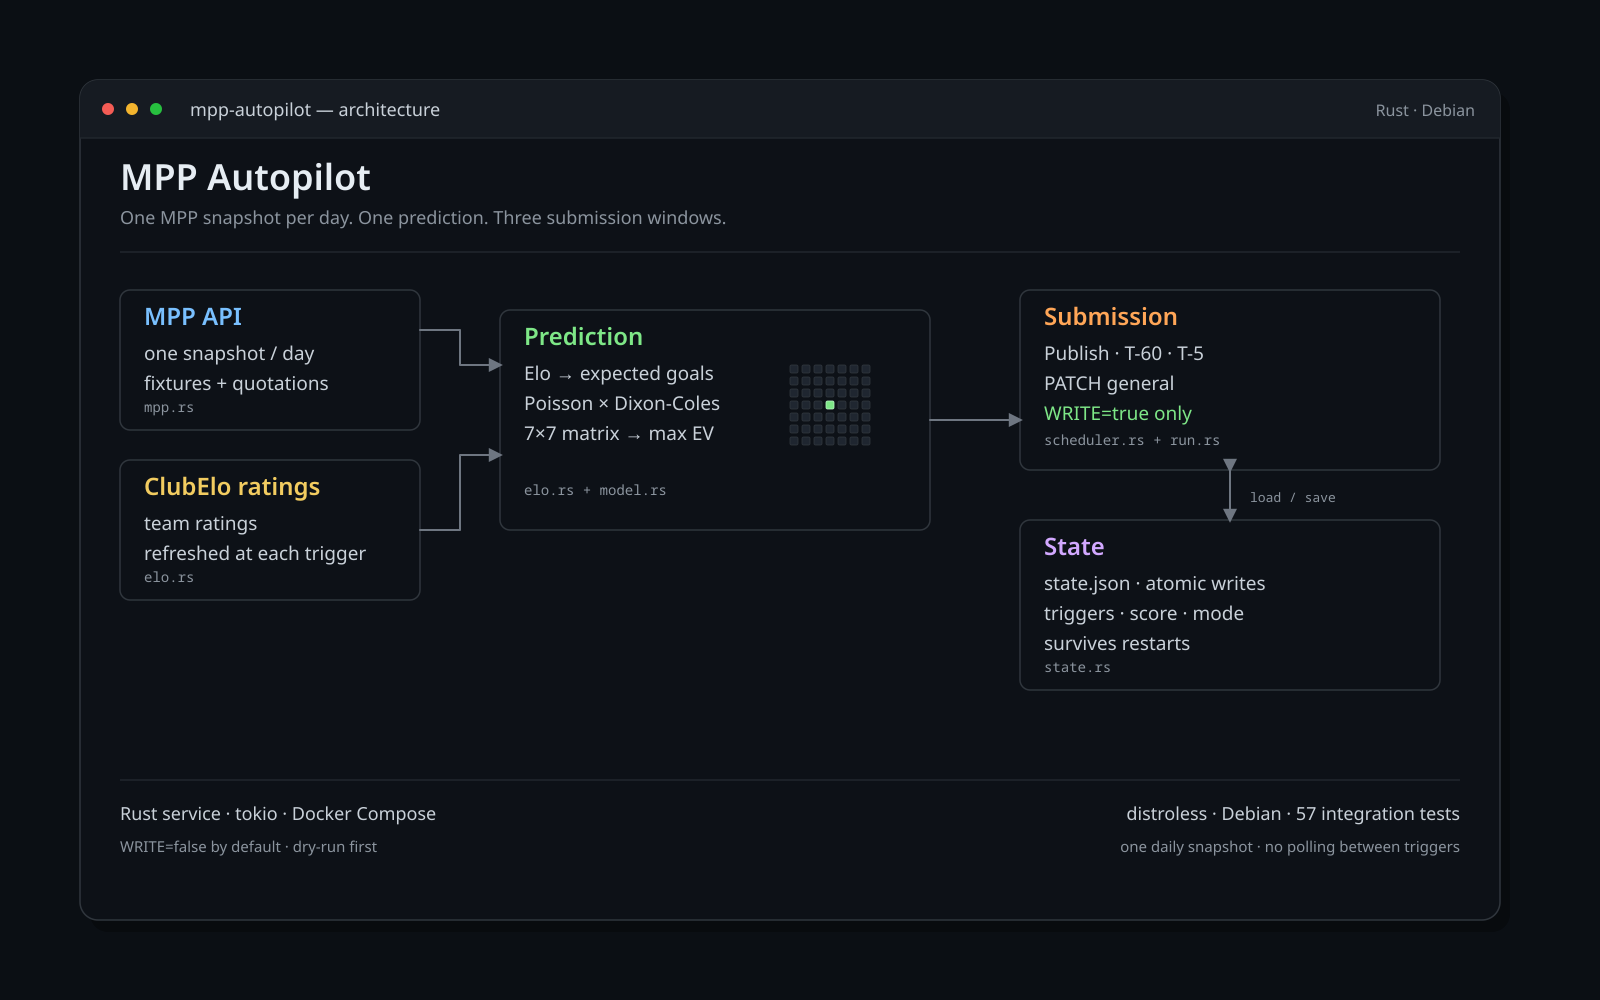
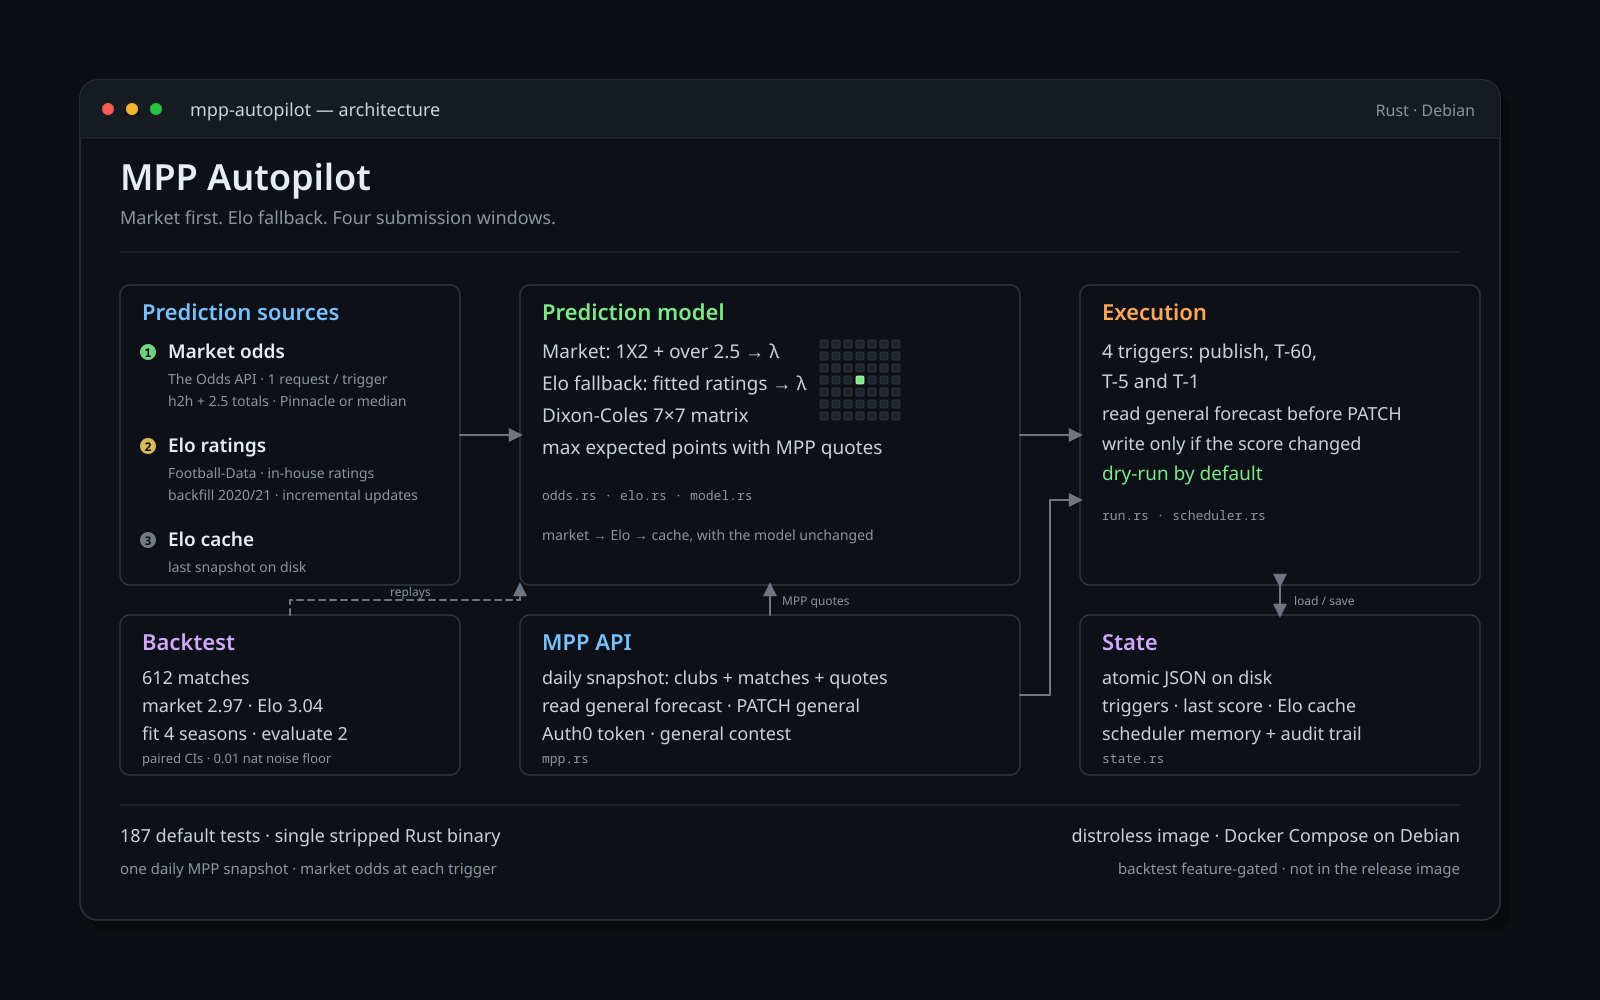
feat(projects): refresh MPP architecture and case study

diff --git a/src/data/projects.ts b/src/data/projects.ts
@@ -25,7 +25,7 @@ const data: Record<Locale, Project[]> = {
       id: "mpp-autopilot",
       title: "MPP Autopilot",
       description:
-        "Autonomous Rust service that predicts Ligue 1 scorelines for a friends' Mon Petit Prono league, choosing the exact score that maximizes expected points from Elo ratings and MPP quotations.",
+        "Autonomous Rust service that predicts Ligue 1 scorelines for a friends' Mon Petit Prono league, choosing the exact score that maximizes expected points from live market odds, with an Elo fallback.",
       tags: ["Rust", "Docker"],
       repoUrl: "https://github.com/yannvillellas/mpp-autopilot",
       screenshots: [
@@ -37,12 +37,12 @@ const data: Record<Locale, Project[]> = {
         {
           src: "/images/projects/mpp-autopilot/2.png",
           caption:
-            "Architecture: one daily MPP snapshot, three triggers, persistent state",
+            "Architecture: market odds, Elo fallback, four triggers, backtest",
           orientation: "landscape",
         },
       ],
       detail:
-        "Built MPP Autopilot to automate a weekly Ligue 1 prediction routine for a friends' Mon Petit Prono (MPP) league. The service takes one daily snapshot of fixtures and quotations, converts ClubElo ratings into home and away expected goals with a Poisson model and a Dixon-Coles correction, then builds a 7\u00d77 score matrix to select the score with the highest expected points.\n\nIt schedules three submission triggers (publication, T-60, and T-5), keeps persistent state that prevents completed triggers from being replayed across restarts, and enables dry-run by default.\n\nThe result is a weekly routine that runs without manual intervention: 57 integration tests cover the trigger and state paths, and the service ships as a single stripped Rust binary in a distroless image, deployed with Docker Compose on Debian.",
+        "Built MPP Autopilot to automate a weekly Ligue 1 prediction routine for a friends' Mon Petit Prono (MPP) league. The task was to pick the exact score with the highest expected points from the market's prices, without depending on a single data source.\n\nEach trigger pass sends one request to The Odds API for the 1X2 line and the 2.5-goal total, converts them into home and away expected goals through a Poisson solve, and builds a 7\u00d77 Dixon-Coles score matrix to pick the highest expected points. When the market is missing or unusable, the model falls back to in-house Elo ratings computed from Football-Data results, backfilled from 2020/21 and cached on disk. The service schedules four submission triggers (publication, T-60, T-5 and T-1); in write mode it reads the registered forecast back from MPP before patching, and keeps persistent state for trigger memory and an audit trail. Dry-run is the default.\n\nA backtest harness measured the model on 612 matches, fitting the conversion coefficients on four seasons and judging them on two unseen seasons, with paired confidence intervals and a 0.01 nat noise floor. Market prices reached 2.97 exact-score log-loss against 3.04 for the current Elo path, and fitting the conversion improved Elo from 3.11 to 3.04. The default test suite has 187 tests across the market, Elo, trigger and state paths, with 23 more behind the backtest feature. The service ships as a single stripped Rust binary in a distroless image, deployed with Docker Compose on Debian.",
     },
     {
       id: "open-endurance-coach",
@@ -190,7 +190,7 @@ const data: Record<Locale, Project[]> = {
       id: "mpp-autopilot",
       title: "MPP Autopilot",
       description:
-        "Service Rust autonome qui pr\u00e9dit les scores de Ligue 1 pour une ligue Mon Petit Prono entre amis, en choisissant le score exact qui maximise les points attendus \u00e0 partir des ratings Elo et des cotes MPP.",
+        "Service Rust autonome qui pr\u00e9dit les scores de Ligue 1 pour une ligue Mon Petit Prono entre amis, en choisissant le score exact qui maximise les points attendus \u00e0 partir des cotes de march\u00e9, avec repli sur un Elo recalcul\u00e9 en interne.",
       tags: ["Rust", "Docker"],
       repoUrl: "https://github.com/yannvillellas/mpp-autopilot",
       screenshots: [
@@ -203,12 +203,12 @@ const data: Record<Locale, Project[]> = {
         {
           src: "/images/projects/mpp-autopilot/2.png",
           caption:
-            "Architecture : un instantan\u00e9 MPP quotidien, trois d\u00e9clencheurs, \u00e9tat persistant",
+            "Architecture : cotes de march\u00e9, repli Elo, quatre d\u00e9clencheurs, backtest",
           orientation: "landscape",
         },
       ],
       detail:
-        "Cr\u00e9ation de MPP Autopilot pour automatiser une routine hebdomadaire de pronostics Ligue 1 pour une ligue Mon Petit Prono (MPP) entre amis. Le service prend un instantan\u00e9 quotidien des rencontres et des cotes, convertit les ratings ClubElo en buts attendus \u00e0 domicile et \u00e0 l\u2019ext\u00e9rieur avec un mod\u00e8le de Poisson et une correction Dixon-Coles, puis construit une matrice de scores 7\u00d77 pour retenir le score qui maximise les points attendus.\n\nLe service planifie trois d\u00e9clencheurs de soumission (publication, T-60 et T-5), conserve un \u00e9tat persistant qui emp\u00eache le rejeu des d\u00e9clencheurs ex\u00e9cut\u00e9s apr\u00e8s red\u00e9marrage, et active le mode dry-run par d\u00e9faut.\n\nLe r\u00e9sultat est une routine hebdomadaire qui tourne sans intervention manuelle : 57 tests d\u2019int\u00e9gration couvrent les d\u00e9clencheurs et l\u2019\u00e9tat, et le service est livr\u00e9 sous forme d\u2019un binaire Rust unique all\u00e9g\u00e9 dans une image distroless, d\u00e9ploy\u00e9e avec Docker Compose sur Debian.",
+        "Cr\u00e9ation de MPP Autopilot pour automatiser une routine hebdomadaire de pronostics Ligue 1 pour une ligue Mon Petit Prono (MPP) entre amis. L\u2019objectif \u00e9tait de choisir le score exact qui maximise les points attendus \u00e0 partir des cotes du march\u00e9, sans d\u00e9pendre d\u2019une source unique de donn\u00e9es.\n\nChaque passe de d\u00e9clencheur envoie une requ\u00eate \u00e0 The Odds API pour la ligne 1X2 et le total de 2,5 buts, les convertit en buts attendus \u00e0 domicile et \u00e0 l\u2019ext\u00e9rieur par r\u00e9solution de Poisson, puis construit une matrice de scores Dixon-Coles 7\u00d77 pour retenir le score qui maximise les points attendus. Si le march\u00e9 est absent ou inutilisable, le mod\u00e8le se replie sur des ratings Elo calcul\u00e9s en interne depuis les r\u00e9sultats Football-Data, r\u00e9tro-remplis depuis 2020/21 et mis en cache sur disque. Le service planifie quatre d\u00e9clencheurs de soumission (publication, T-60, T-5 et T-1) ; en mode \u00e9criture, il relit le pronostic enregistr\u00e9 aupr\u00e8s de MPP avant d\u2019\u00e9crire, et conserve un \u00e9tat persistant pour la m\u00e9moire des d\u00e9clencheurs et l\u2019historique des \u00e9critures. Le mode dry-run est activ\u00e9 par d\u00e9faut.\n\nUn harnais de backtest a mesur\u00e9 le mod\u00e8le sur 612 matchs, avec les coefficients de conversion ajust\u00e9s sur quatre saisons et \u00e9valu\u00e9s sur deux saisons jamais vues, \u00e0 l\u2019aide d\u2019intervalles de confiance appari\u00e9s et d\u2019un plancher de bruit de 0,01 nat. Les cotes de march\u00e9 atteignent 2,97 de log-loss sur le score exact contre 3,04 pour la trajectoire Elo actuelle, et l\u2019ajustement de la conversion a fait passer Elo de 3,11 \u00e0 3,04. La suite de tests par d\u00e9faut compte 187 tests sur le march\u00e9, Elo, les d\u00e9clencheurs et l\u2019\u00e9tat, avec 23 tests suppl\u00e9mentaires derri\u00e8re la fonctionnalit\u00e9 backtest. Le service est livr\u00e9 sous forme d\u2019un binaire Rust unique all\u00e9g\u00e9 dans une image distroless, d\u00e9ploy\u00e9e avec Docker Compose sur Debian.",
     },
     {
       id: "open-endurance-coach",
